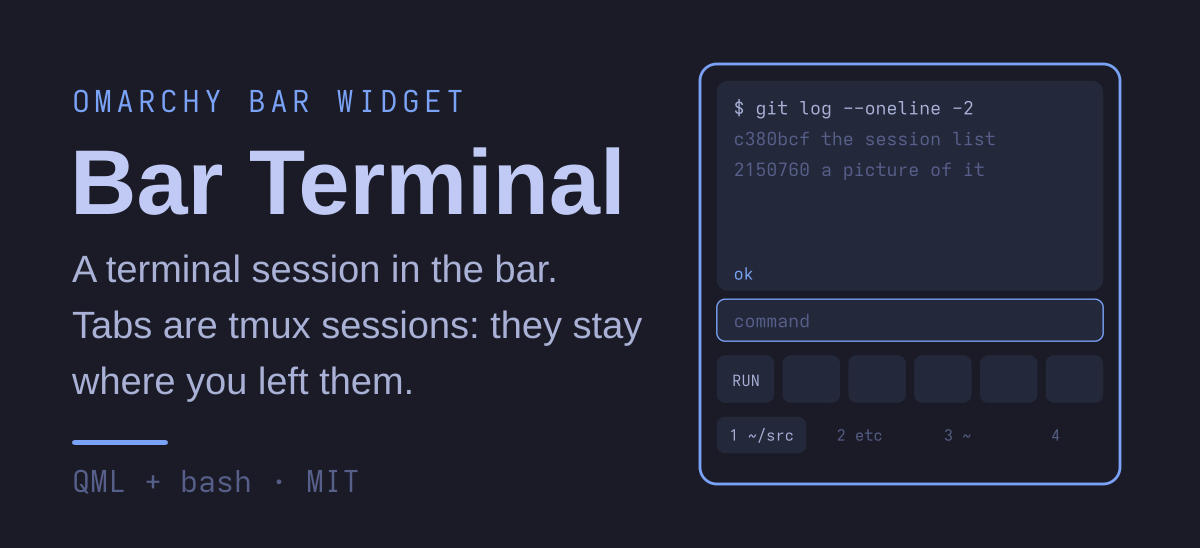
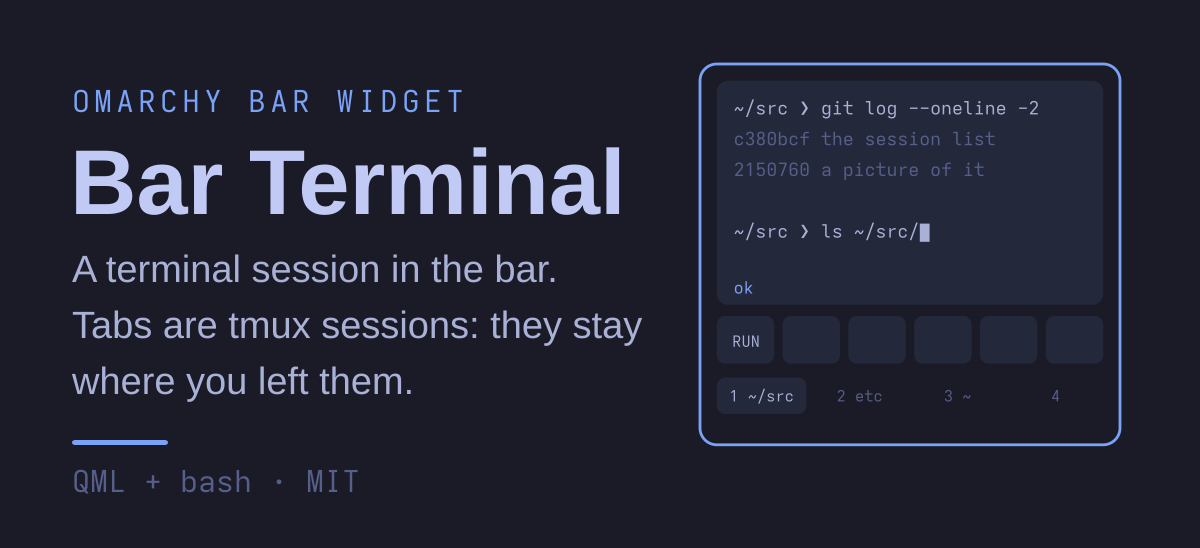
Retake everything the old design is still in
The hero drew a command bar the widget no longer has, the carousel's six frames
were captured before the change, and the how-it-works strip still called the
first step 'the prompt' when a key now goes straight into the session. All
redrawn and retaken against what it actually does.

The tmux card's note said the installer avoids a root command to copy from a
web page, which is a note about writing the page rather than about installing
anything. It says what the reader needs instead: this is the one thing to
install, and skip it if you have tmux.

Claude-Session: https://claude.ai/code/session_01NsuTX3xQbZ1pzCFMGiucjP

diff --git a/README.md b/README.md
@@ -19,7 +19,7 @@ outlives the widget: restart the shell, or log back in tomorrow, and your tabs a
 you left them.
 
 <p align="center">
-  <img src="./assets/readme/how-it-works.svg" width="100%" alt="How a command reaches your shell: typing in the pad's prompt makes one bar-term call, which types the command into a tmux session where your own bash runs it, and the pad reads that session's screen back">
+  <img src="./assets/readme/how-it-works.svg" width="100%" alt="How a keystroke reaches your shell: a key pressed in the pad becomes one bar-term call, which types it into a tmux session where your own bash reads it, and the pad reads that session's screen back">
 </p>
 
 It draws itself in whatever Omarchy theme you are running. Every colour comes from the
